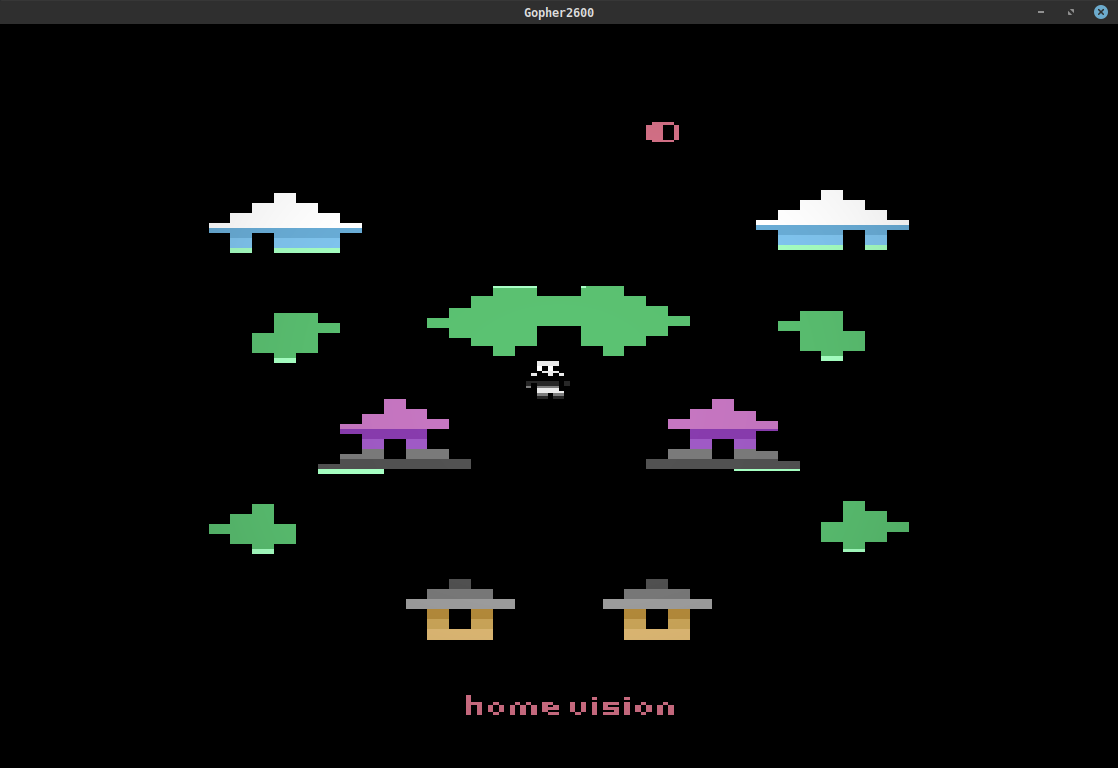
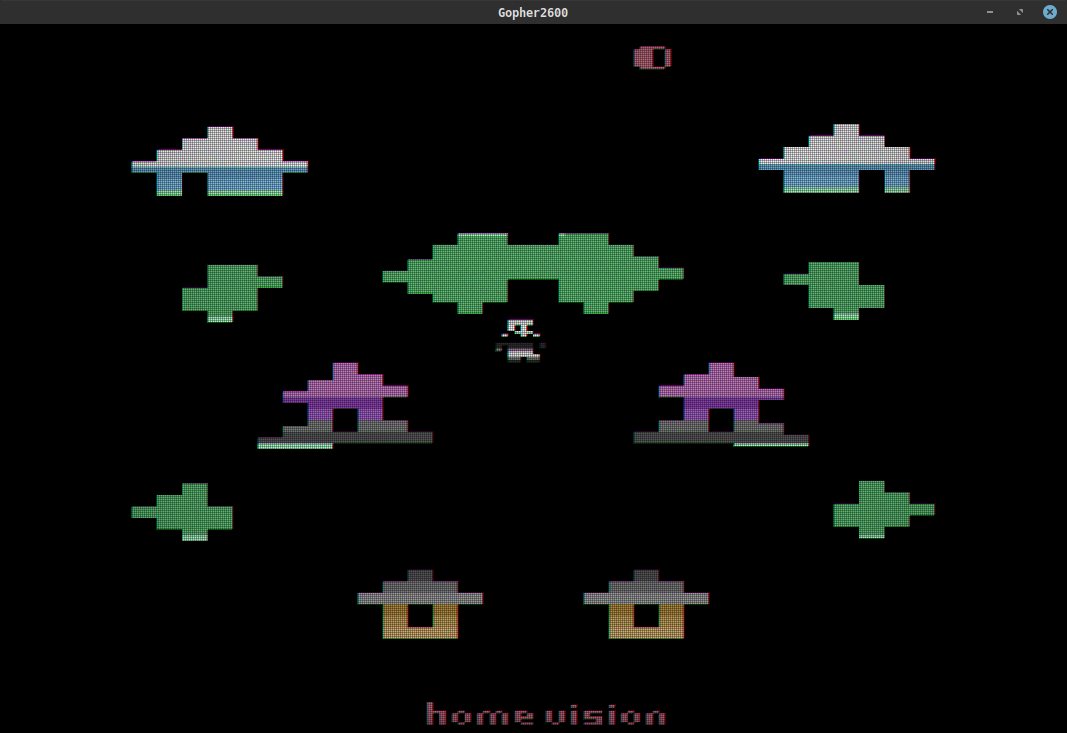
updated README and screenshots

diff --git a/README.md b/README.md
@@ -22,9 +22,14 @@ The graphical [debugger](#debugger) is still in development but the current feat
 
 ## Screenshots
 
+The following screenshots were taken in playmode with CRT effects enabled
+
 <img src=".screenshots/games/pitfall.png" height="200" alt="pitfall"/> <img src=".screenshots/games/heman.png" height="200" alt="he-man"/>
 <img src=".screenshots/games/krull.png" height="200" alt="krull"/> <img src=".screenshots/games/ladybug.png" height="200" alt="ladybug"/>
-<img src=".screenshots/games/thrust.png" height="200" alt="thrust"/> <img src=".screenshots/games/pandachase.png" height="200" alt="panda chase"/> <img src=".screenshots/games/mangoesdown.png" height="200" alt="man goes down"/> <img src=".screenshots/games/beast.png" height="200" alt="legacy of the beast"/> <img src=".screenshots/games/chiphead.png" height="200" alt="chiphead"/> <img src=".screenshots/games/genesis.png" height="200" alt="egypt genesis"/>
+<img src=".screenshots/games/thrust.png" height="200" alt="thrust"/> <img src=".screenshots/games/pandachase.png" height="200" alt="panda chase"/>
+<img src=".screenshots/games/mangoesdown.png" height="200" alt="man goes down"/> <img src=".screenshots/games/beast.png" height="200" alt="legacy of the beast"/>
+<img src=".screenshots/games/chiphead.png" height="200" alt="chiphead"/> <img src=".screenshots/games/genesis.png" height="200" alt="egypt genesis"/>
+<img src=".screenshots/games/draconian.png" height="200" alt="draconian"/> <img src=".screenshots/games/zevious.png" height="200" alt="zevious"/>
 
 ## Scope of the project
 
@@ -297,15 +302,19 @@ commandline switch:
 
 	> gopher2600 -crt=false roms/Pitfall.bin
 
-Individual CRT effects can be turned on and off but currently you need to enter
-debug mode for this. Select the `CRT Preferences` entry in the `Debugger` menu.
-The following window will be shown:
+Individual CRT effects can be turned on and off. From the debugger select the
+`CRT Preferences` entry in the `Debugger` menu. The following window will be
+shown:
 
 <img src=".screenshots/crt_prefs_window.png" height="400" alt="crt preferences window"/>
 
-For reasonably modern GFX card (the developer has a GeForce GTX 650) none of
-these effects should have any impact on performance, so the effect strength (or whether
-they are enabled at all) is down to taste.
+The preview window give an impression of the effect the CRT preferences on the
+current ROM. You can move the preview image by dragging it with the mouse.
+
+From playmode, the preferences window can by opened by pressing `F10`. An
+example of the screen shot is given below.
+
+<img src=".screenshots/crt_playmode_prefs_window.png" height="400" alt="crt playmode preferences window"/>
 
 ## Configuration Directory
 
